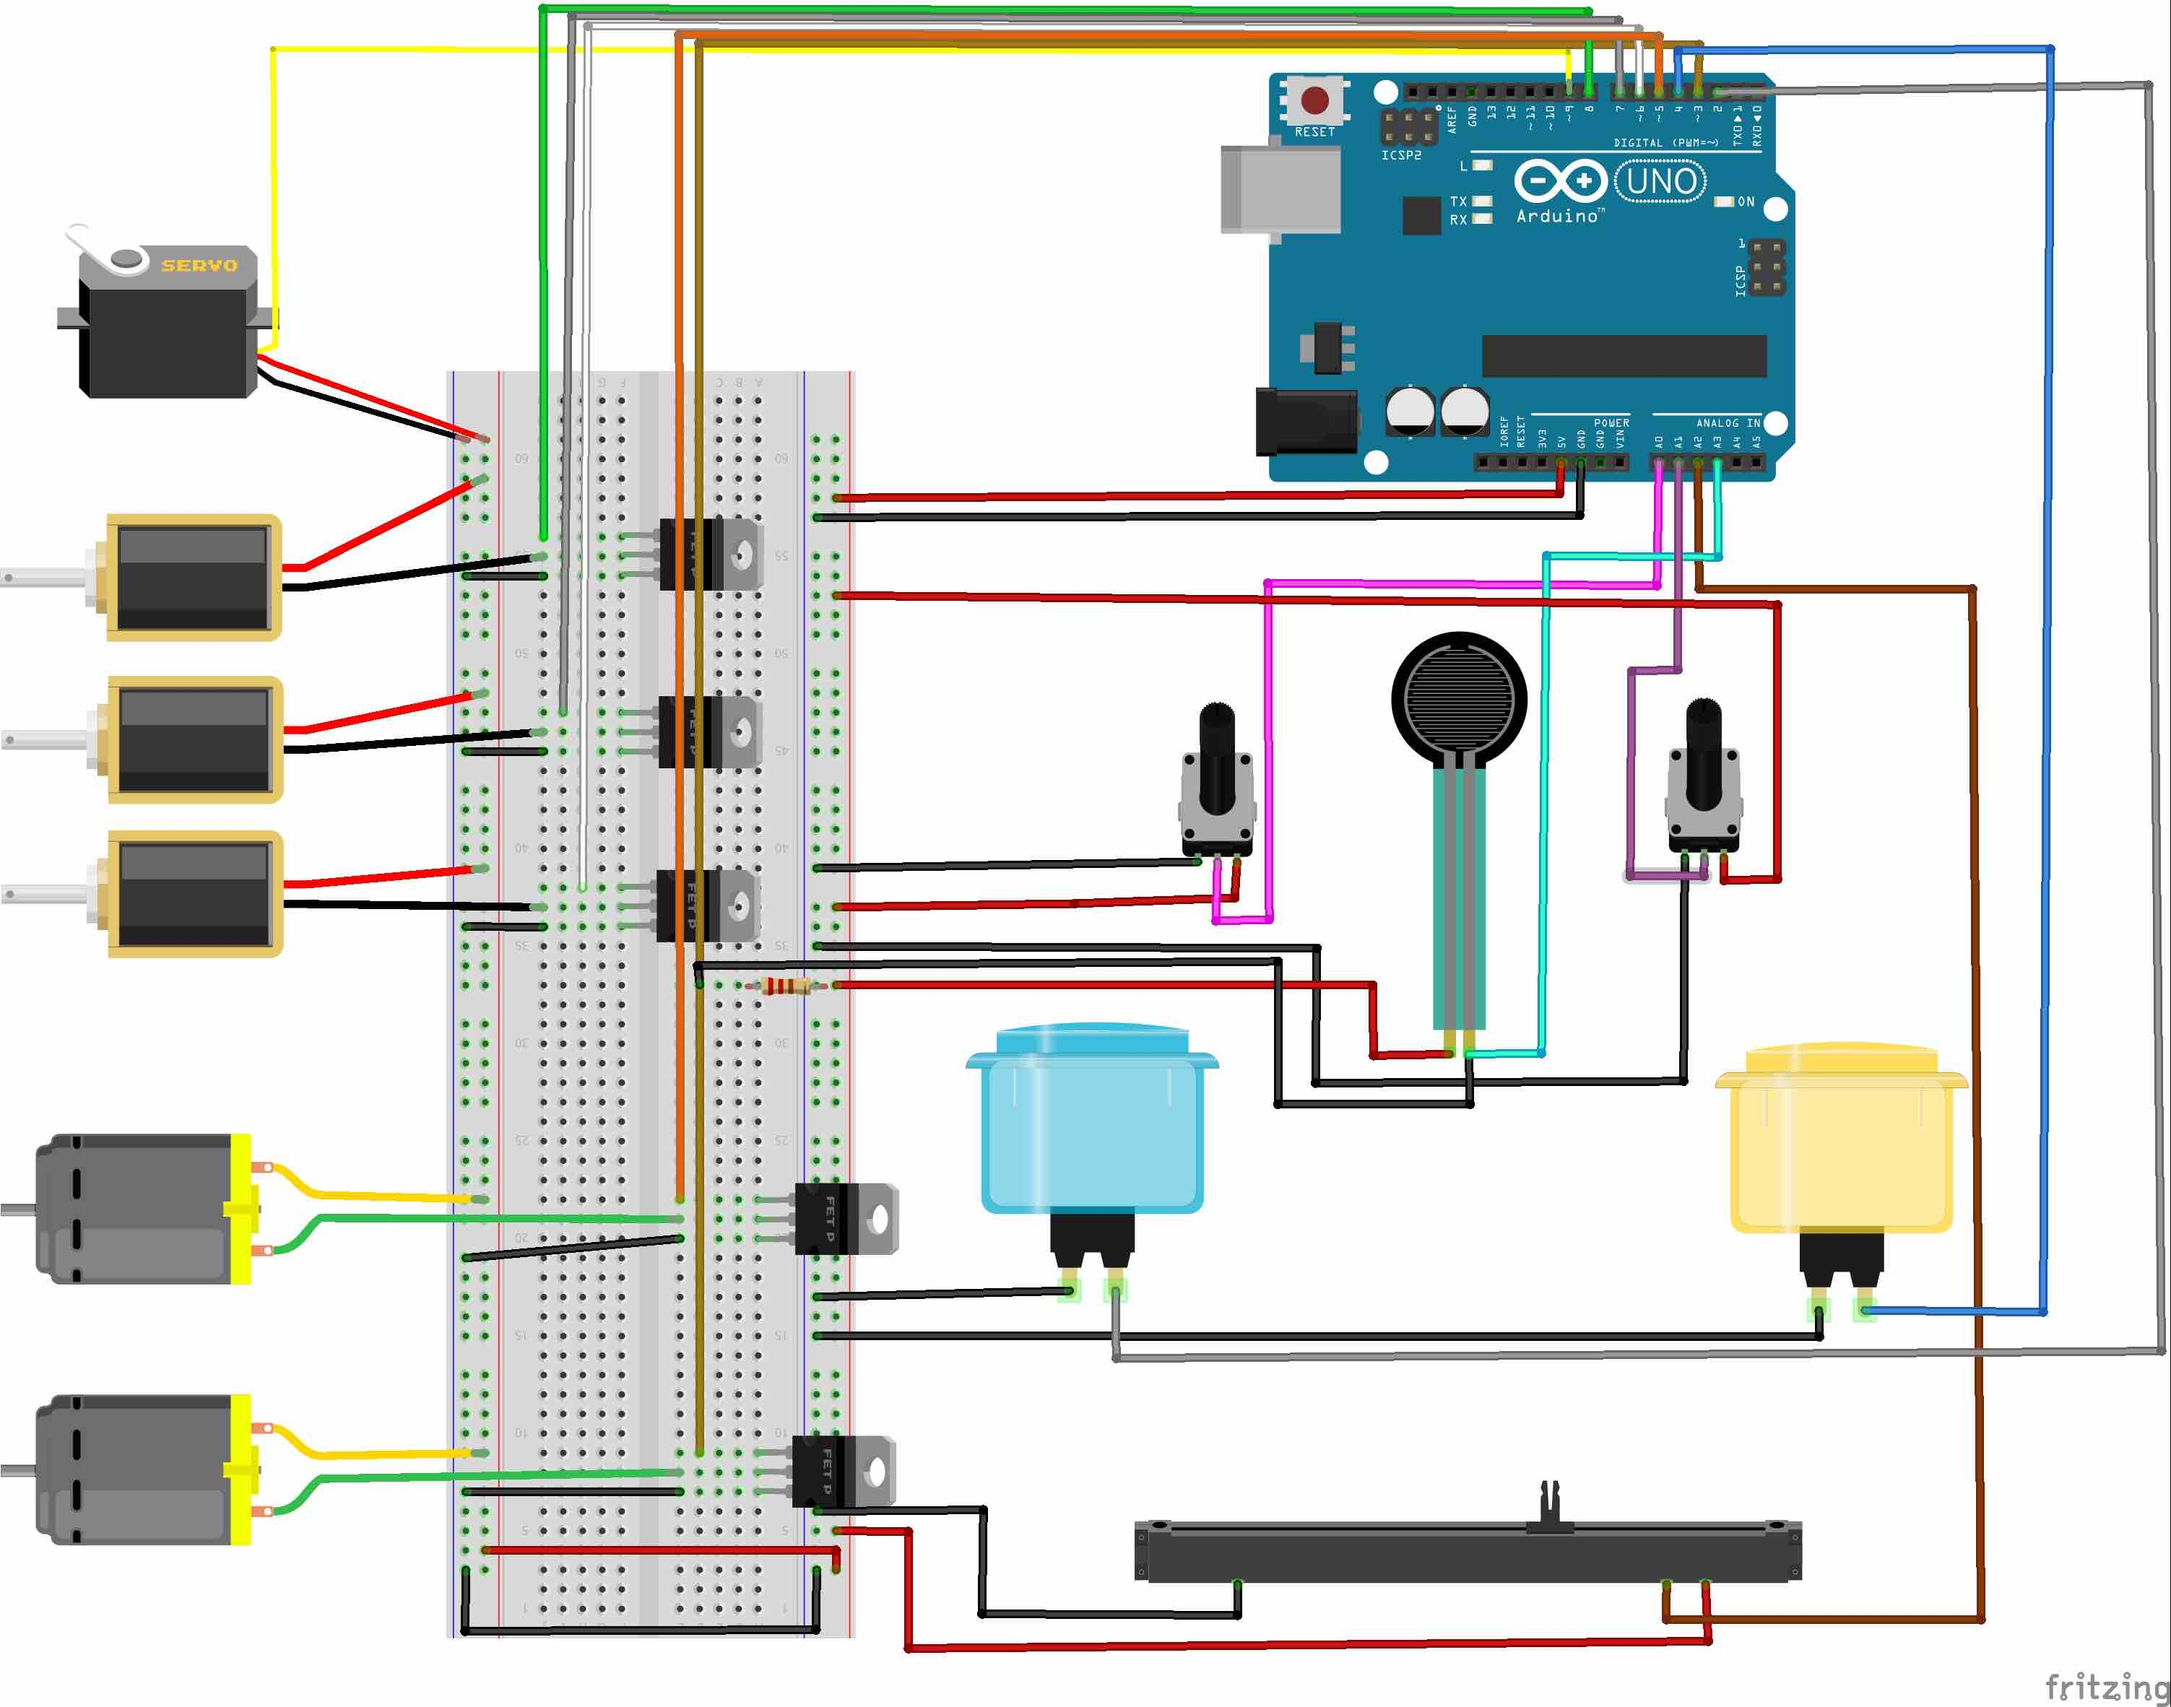
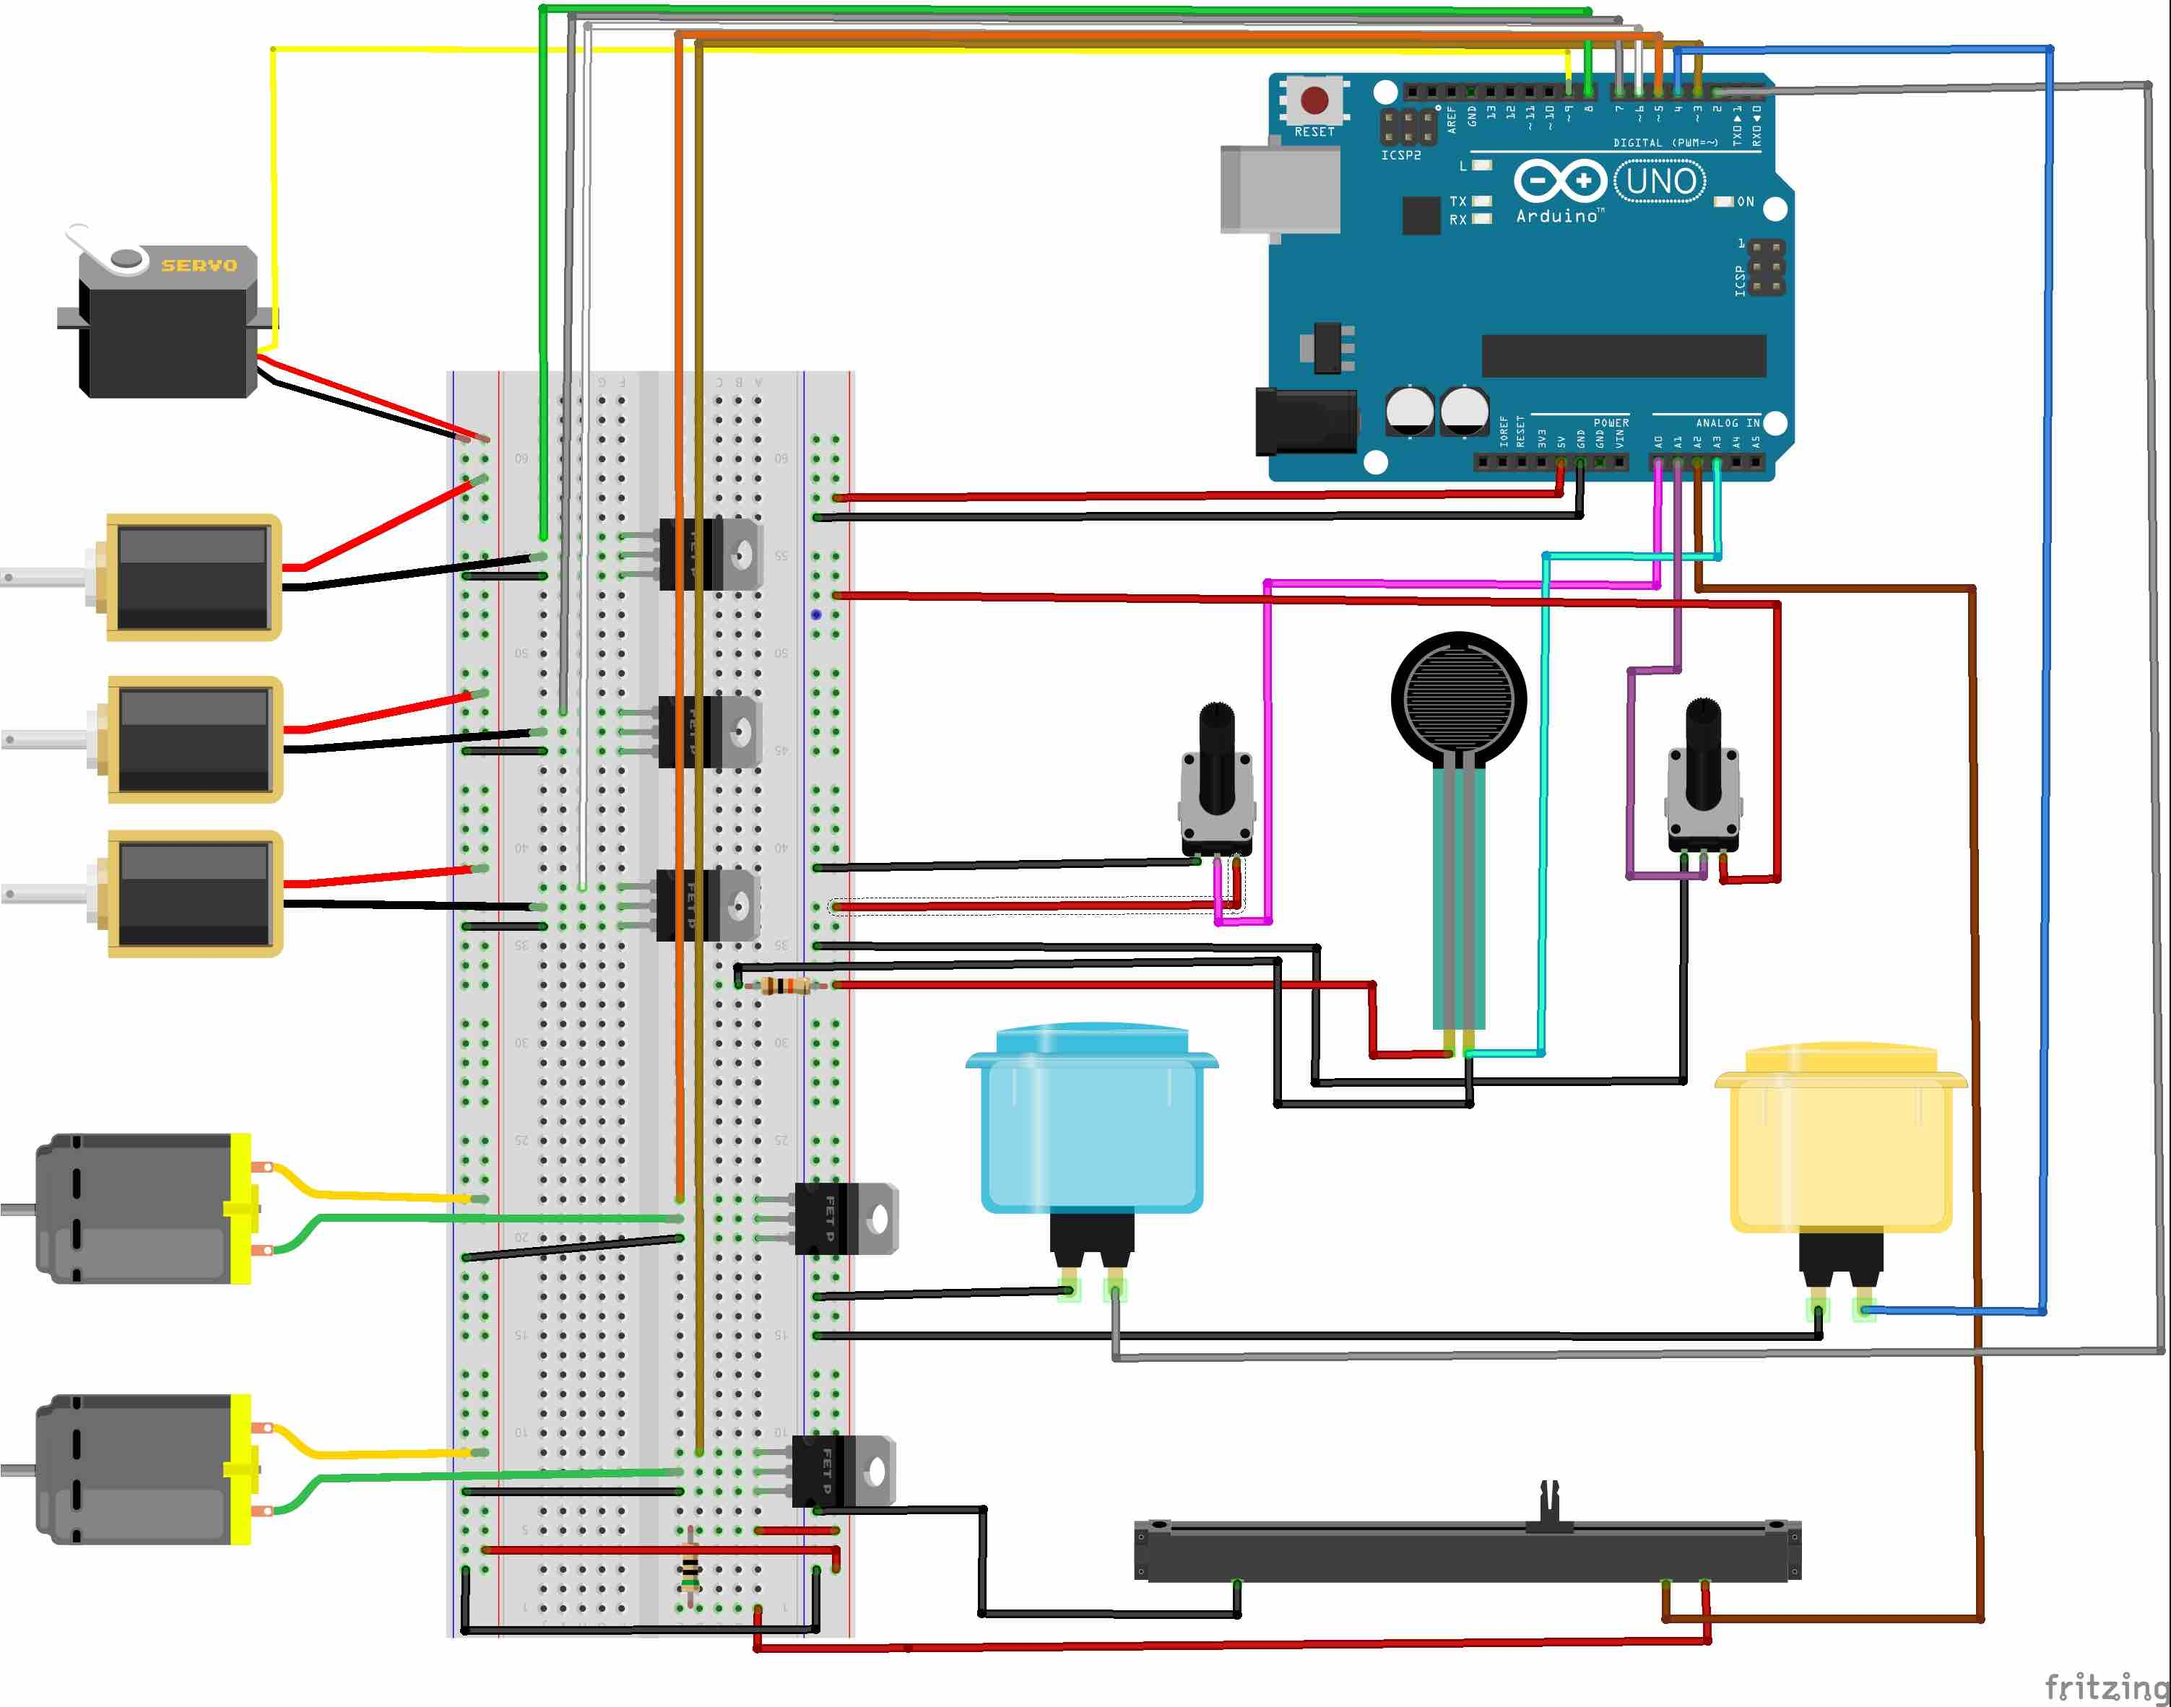
Update: wiring; Fix: servo behaviour

diff --git a/README.md b/README.md
@@ -1,6 +1,13 @@
 # Olivia Piano
 
-* * *
+---
+
+- [What is it?](#what-is-it)
+- [What does it involve?](#what-does-it-involve)
+- [Pin out](#pin-out)
+- [Control Map](#control-map)
+- [Wiring](#wiring)
+	- [Notes](#notes)
 
 ## What is it?
 
@@ -10,18 +17,18 @@ Code for Olivia's prepared piano
 
 At the moment there are:
 
--   x2 Push Buttons
--   x3 Potentiometers
-    -   x1 Slider
-    -   x2 Rotary
--   x1 Force-Sensing Resistor
--   x3 Solenoids
-    -   x2 Single Fire
-    -   x1 Rapid Fire
--   x1 Servo
--   x2 DC Motors
+- x2 Push Buttons
+- x3 Potentiometers
+  - x1 Slider
+  - x2 Rotary
+- x1 Force-Sensing Resistor
+- x3 Solenoids
+  - x2 Single Fire
+  - x1 Rapid Fire
+- x1 Servo
+- x2 DC Motors
 
-* * *
+---
 
 ## Pin out
 
@@ -58,3 +65,8 @@ In the current version of the code, this is the pinout, though this can be chang
 Wiring is a little chaotic, but here is a wiring diagram for illustration.
 
 ![](wiring/olivia-piano-wiring_bb.jpg)
+
+### Notes
+
+- Resistor in front of the slide pot `5V` of `~50 Ω`;
+- `~10 kΩ` Resistor between the pressure resistor and `GND`
